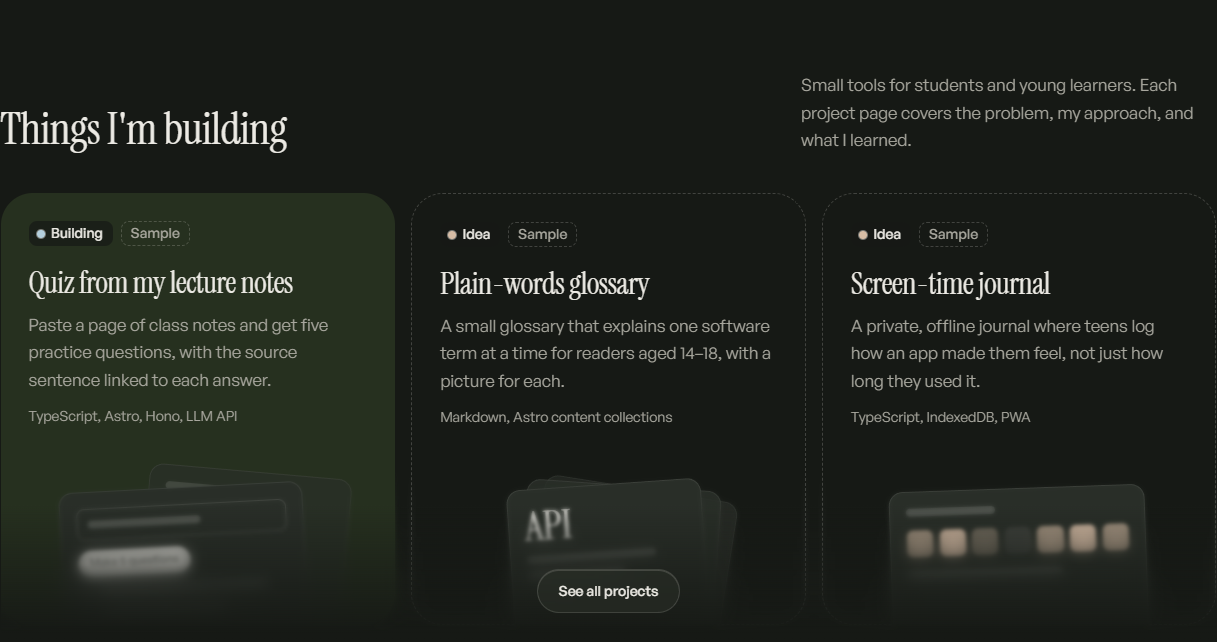
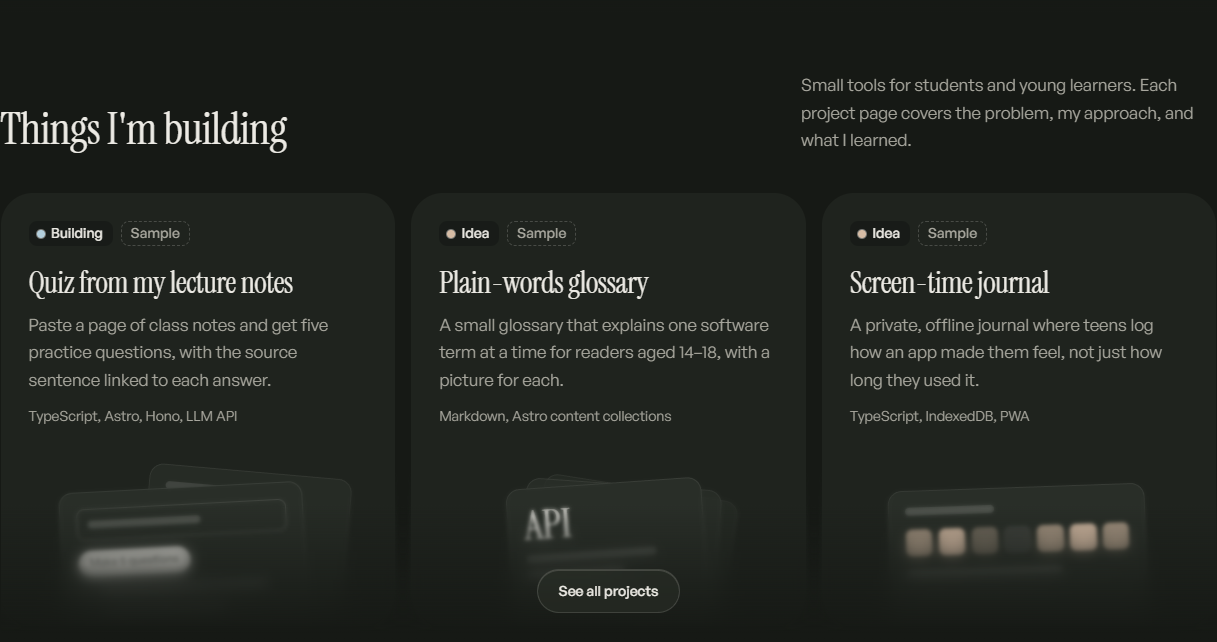
feat(projects): all project cards on warm stone surface (user choice over status colors)

diff --git a/src/lib/contrast.ts b/src/lib/contrast.ts
@@ -79,13 +79,9 @@ export const TEXT_PAIRS: ContrastPair[] = [
   { fg: "ink", bg: "paper", usage: "Body text, headings" },
   { fg: "ink-soft", bg: "paper", usage: "Secondary text, meta" },
   { fg: "accent", bg: "paper", usage: "Links, focus ring" },
-  { fg: "ink", bg: "surface", usage: "Text on calm cards" },
-  { fg: "ink-soft", bg: "surface", usage: "Secondary text on calm cards" },
+  { fg: "ink", bg: "surface", usage: "Text on calm cards, project cards" },
+  { fg: "ink-soft", bg: "surface", usage: "Secondary text on calm and project cards" },
   { fg: "ink", bg: "surface-raised", usage: "Nav, raised panels" },
-  { fg: "ink", bg: "tint-building", usage: "Project card (building)" },
-  { fg: "ink-soft", bg: "tint-building", usage: "Project card meta (building)" },
-  { fg: "on-deep", bg: "deep-sage", usage: "Project card (shipped)" },
-  { fg: "on-deep-soft", bg: "deep-sage", usage: "Project card meta (shipped)" },
   { fg: "on-tape", bg: "tape", usage: "Label strip (hero)" },
   { fg: "ink", bg: "tint-sage", usage: "Hero card chip (sage)" },
   { fg: "ink", bg: "tint-sky", usage: "Hero card chip (sky)" },

diff --git a/src/styles/tokens.css b/src/styles/tokens.css
@@ -50,9 +50,6 @@
   --tint-sage: light-dark(#e1e7dc, #222a20);
   --tint-sky: light-dark(#dfeaf0, #1e2626); /* dark: teal-grey, kept away from navy */
   --tint-tan: light-dark(#efe4d8, #2b241e);
-  /* Project cards: color follows status. Building = this solid sage; idea = dashed outline
-     on the page (a sketch, not built yet); shipped = --deep-sage. */
-  --tint-building: light-dark(#d9e2d2, #26301f);
 
   /* ── Label-maker tape (hero strip): black plastic in both modes ── */
   --tape: light-dark(#1c1c1a, #1c1c1a);

diff --git a/ARCHITECTURE.md b/ARCHITECTURE.md
@@ -113,7 +113,7 @@ Warna dipetakan ke utility Tailwind di `global.css` lewat `@theme inline` (`bg-p
 | Aksen teks (link, focus) | `--accent` | `#4a5d44` sage tua | `#aec2a5` sage muda |
 | Aksen permukaan | `--sage` `--sky` `--tan` | `#8b9d83` `#a8c5d6` `#c9a88c` | sama / sedikit lebih terang |
 | Teks di atas isian aksen | `--on-fill` | `#2a2a2a` | `#161915` |
-| Card proyek (warna = status) | `--tint-building` (building), garis putus-putus (idea), `--deep-sage` (shipped) | `#d9e2d2` | `#26301f` |
+| Card proyek | `--surface` (batu hangat, sama untuk semua card; warna dari ilustrasi + chip status) | `#e6e1d7` | `#1f231e` |
 | Tint chip card hero | `--tint-sage/sky/tan` | pastel terang | versi gelap berwarna |
 | Strip label | `--tape` + `--on-tape` | `#1c1c1a` / `#f1efe9` | sama (plastik hitam) |
 | Card tulisan gelap | `--deep-sage`, `--deep-ink` + `--on-deep(-soft)` | `#3e4b39`, `#2a2a2a` | `#33402f`, `#332c25` (selalu lebih terang dari halaman) |
@@ -127,13 +127,9 @@ Sage = aksen utama, sky = pendukung, tan = isian hover yang hangat. **Tidak ada 
 | light | `--ink` | `--paper` | 12.72:1 | ✅ | Body text, headings |
 | light | `--ink-soft` | `--paper` | 6.10:1 | ✅ | Secondary text, meta |
 | light | `--accent` | `--paper` | 6.33:1 | ✅ | Links, focus ring |
-| light | `--ink` | `--surface` | 11.02:1 | ✅ | Text on calm cards |
-| light | `--ink-soft` | `--surface` | 5.29:1 | ✅ | Secondary text on calm cards |
+| light | `--ink` | `--surface` | 11.02:1 | ✅ | Text on calm cards, project cards |
+| light | `--ink-soft` | `--surface` | 5.29:1 | ✅ | Secondary text on calm and project cards |
 | light | `--ink` | `--surface-raised` | 13.99:1 | ✅ | Nav, raised panels |
-| light | `--ink` | `--tint-building` | 10.77:1 | ✅ | Project card (building) |
-| light | `--ink-soft` | `--tint-building` | 5.17:1 | ✅ | Project card meta (building) |
-| light | `--on-deep` | `--deep-sage` | 8.26:1 | ✅ | Project card (shipped) |
-| light | `--on-deep-soft` | `--deep-sage` | 5.40:1 | ✅ | Project card meta (shipped) |
 | light | `--on-tape` | `--tape` | 14.84:1 | ✅ | Label strip (hero) |
 | light | `--ink` | `--tint-sage` | 11.39:1 | ✅ | Hero card chip (sage) |
 | light | `--ink` | `--tint-sky` | 11.73:1 | ✅ | Hero card chip (sky) |
@@ -154,13 +150,9 @@ Sage = aksen utama, sky = pendukung, tan = isian hover yang hangat. **Tidak ada 
 | dark | `--ink` | `--paper` | 14.74:1 | ✅ | Body text, headings |
 | dark | `--ink-soft` | `--paper` | 7.34:1 | ✅ | Secondary text, meta |
 | dark | `--accent` | `--paper` | 9.34:1 | ✅ | Links, focus ring |
-| dark | `--ink` | `--surface` | 13.25:1 | ✅ | Text on calm cards |
-| dark | `--ink-soft` | `--surface` | 6.59:1 | ✅ | Secondary text on calm cards |
+| dark | `--ink` | `--surface` | 13.25:1 | ✅ | Text on calm cards, project cards |
+| dark | `--ink-soft` | `--surface` | 6.59:1 | ✅ | Secondary text on calm and project cards |
 | dark | `--ink` | `--surface-raised` | 11.52:1 | ✅ | Nav, raised panels |
-| dark | `--ink` | `--tint-building` | 11.45:1 | ✅ | Project card (building) |
-| dark | `--ink-soft` | `--tint-building` | 5.70:1 | ✅ | Project card meta (building) |
-| dark | `--on-deep` | `--deep-sage` | 9.11:1 | ✅ | Project card (shipped) |
-| dark | `--on-deep-soft` | `--deep-sage` | 5.37:1 | ✅ | Project card meta (shipped) |
 | dark | `--on-tape` | `--tape` | 14.84:1 | ✅ | Label strip (hero) |
 | dark | `--ink` | `--tint-sage` | 12.29:1 | ✅ | Hero card chip (sage) |
 | dark | `--ink` | `--tint-sky` | 12.83:1 | ✅ | Hero card chip (sky) |
@@ -218,7 +210,7 @@ draft: false # true = tidak tampil di production
 Isi artikel…
 ```
 
-**Proyek baru:** buat `src/content/projects/<slug>.md` dengan field `title`, `summary`, `status` (`idea | building | shipped`), `stack`, `startedAt`, `tint` (`sage | sky | tan`, hanya untuk chip card hero; warna card proyek mengikuti `status`), dan opsional `updatedAt`, `repo`, `demo`, `featured`. Body memakai heading **Problem → Approach → Result → Learnings**.
+**Proyek baru:** buat `src/content/projects/<slug>.md` dengan field `title`, `summary`, `status` (`idea | building | shipped`), `stack`, `startedAt`, `tint` (`sage | sky | tan`, hanya untuk chip card hero; card proyek selalu `--surface`), dan opsional `updatedAt`, `repo`, `demo`, `featured`. Body memakai heading **Problem → Approach → Result → Learnings**.
 
 **Update /now:** buat file baru per bulan `src/content/now/YYYY-MM.md` (field `month`, `learning`, `building`, `reading`). Entri terbaru otomatis menjadi /now.
 
@@ -307,5 +299,5 @@ Card stack **tidak pernah autoplay**. Durasi 150–400ms. `prefers-reduced-motio
 | 015 | Scroll reveal dengan CSS scroll-driven animations | Nol JS, mudah dimatikan, fallback teks penuh | GSAP ScrollTrigger |
 | 016 | Timeline sebagai collection `file()` YAML | Satu file mudah diedit, ikut guard sample | Array di halaman (lolos dari guard) |
 | 017 | Card hero bergaya notebook dengan isi dari field konten | Personal dan spesifik, tapi tetap data-driven (tidak ada klaim hardcoded) | Skeleton generik (terlalu polos), kolase (bertabrakan dengan tumpukan) |
-| 018 | Warna card proyek mengikuti status | Warna punya makna dan jujur (ide tampil sebagai sketsa); status tetap tertulis di chip (WCAG 1.4.1) | Tiga pastel per proyek (kusam, acak), satu warna (datar), kertas notebook (mengulang motif hero), pastel lebih jenuh |
+| 018 | Semua card proyek memakai batu hangat (`--surface`) | Pilihan user setelah mockup: tenang dan disiplin, warna datang dari ilustrasi dan chip status | Tiga pastel per proyek (kusam, acak), warna = status (sempat diterapkan, lalu diganti), kertas notebook (mengulang motif hero), pastel lebih jenuh |
 | 019 | Strip label ketikan menggantikan stiker bundar di hero | Lebih khas dan terbaca; diambil dari referensi journaling tanpa membawa gaya scrapbook | Stiker bundar, /now bergaya jurnal (ditolak user: terlalu ramai) |

diff --git a/docs/keywords.md b/docs/keywords.md
@@ -67,8 +67,6 @@
 | `css radial-gradient pattern` | CSS | HeroStack (kertas dot-grid) | 2 |
 | `multiple backgrounds` | CSS | HeroStack (garis margin + titik + kertas) | 2 |
 | `css cascade source order` | CSS | HeroCardFace, about (bug urutan @media) | 2 |
-| `css attribute selector` | CSS | ProjectCard (warna per status) | 2 |
-| `border-style dashed` | CSS | ProjectCard (idea = sketsa) | 2 |
 | `text-shadow emboss` | CSS | LabelStrip | 2 |
 | `tailwind grid-column col-*` | Tailwind | Konvensi nama kelas (bentrok) | 2 |
 
@@ -111,7 +109,7 @@
 | `aria-live polite` | A11y | Hero phrase | 2 |
 | `wcag 4.1.3 status messages` | A11y | Hero phrase | 2 |
 | `sr-only opens in a new tab` | A11y | Hero proof link | 2 |
-| `wcag 1.4.1 use of color` | A11y | ProjectCard (status tetap tertulis) | 2 |
+| `wcag 1.4.1 use of color` | A11y | StatusChip (status tertulis, titik warna hanya pendukung) | 2 |
 | `aria-hidden per-character span` | A11y | LabelStrip (teks dibaca sekali lewat sr-only) | 2 |
 
 ## Animation
